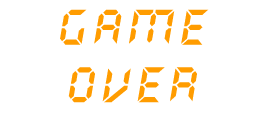
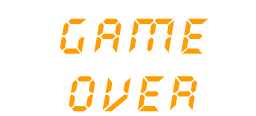
add background, flash title

Changed region(s): [[0.2188, 0.0776, 0.8125, 0.4655], [0.25, 0.569, 0.7812, 0.9828]]

diff --git a/src/MGJ3/Pages/Menu/AboutMenuPage.cs b/src/MGJ3/Pages/Menu/AboutMenuPage.cs
@@ -173,7 +173,7 @@ namespace MGJ3.Pages.MenuPages
             
             pageManager.SpriteBatch.Begin(SpriteSortMode.Deferred, BlendState.AlphaBlend, SamplerState.LinearClamp, DepthStencilState.DepthRead, RasterizerState.CullNone, this.UiEffect);
 
-            pageManager.SpriteBatch.Draw(_txBackground, Vector2.Zero, null, scolor, 0f, Vector2.Zero, 1f, SpriteEffects.None, 0.2f);
+            pageManager.SpriteBatch.Draw(_txBackground, Vector2.Zero, null, color, 0f, Vector2.Zero, 1f, SpriteEffects.None, 0.2f);
 
             string aboutText = @" 
 MonoGame Jam 3, 
@@ -183,7 +183,7 @@ Designed: Kastellanos Nikos (c) 2021
             pageManager.SpriteBatch.DrawString(_font, aboutText, new Vector2(200, 20), Color.LightGreen, 0f, Vector2.Zero, 1f, SpriteEffects.None, 0.3f);
 
             /*
-            pageManager.SpriteBatch.Draw(_txTitle, new Vector2(400,100), null, color, 0f, new Vector2(_txTitle.Width, _txTitle.Height) / 2f, 1f, SpriteEffects.None, 0.7f);
+            pageManager.SpriteBatch.Draw(_txTitle, new Vector2(400,100), null, scolor, 0f, new Vector2(_txTitle.Width, _txTitle.Height) / 2f, 1f, SpriteEffects.None, 0.7f);
             */
 
             for (int i=0; i<_buttons.Count;i++)

diff --git a/src/MGJ3/Pages/Menu/StartMenuPage.cs b/src/MGJ3/Pages/Menu/StartMenuPage.cs
@@ -175,9 +175,9 @@ namespace MGJ3.Pages.MenuPages
             
             pageManager.SpriteBatch.Begin(SpriteSortMode.Deferred, BlendState.AlphaBlend, SamplerState.LinearClamp, DepthStencilState.DepthRead, RasterizerState.CullNone, this.UiEffect);
             
-            pageManager.SpriteBatch.Draw(_txBackground, Vector2.Zero, null, scolor, 0f, Vector2.Zero, 1f, SpriteEffects.None, 0.2f);
+            pageManager.SpriteBatch.Draw(_txBackground, Vector2.Zero, null, color, 0f, Vector2.Zero, 1f, SpriteEffects.None, 0.2f);
 
-            pageManager.SpriteBatch.Draw(_txTitle, new Vector2(400,100), null, color, 0f, new Vector2(_txTitle.Width, _txTitle.Height) / 2f, 1f, SpriteEffects.None, 0.7f);
+            pageManager.SpriteBatch.Draw(_txTitle, new Vector2(400,100), null, scolor, 0f, new Vector2(_txTitle.Width, _txTitle.Height) / 2f, 1f, SpriteEffects.None, 0.7f);
 
             for (int i=0; i<_buttons.Count;i++)
             {

diff --git a/src/MGJ3/Pages/Menu/SettingsMenuPage.cs b/src/MGJ3/Pages/Menu/SettingsMenuPage.cs
@@ -171,9 +171,9 @@ namespace MGJ3.Pages.MenuPages
             
             pageManager.SpriteBatch.Begin(SpriteSortMode.Deferred, BlendState.AlphaBlend, SamplerState.LinearClamp, DepthStencilState.DepthRead, RasterizerState.CullNone, this.UiEffect);
 
-            pageManager.SpriteBatch.Draw(_txBackground, Vector2.Zero, null, scolor, 0f, Vector2.Zero, 1f, SpriteEffects.None, 0.2f);
+            pageManager.SpriteBatch.Draw(_txBackground, Vector2.Zero, null, color, 0f, Vector2.Zero, 1f, SpriteEffects.None, 0.2f);
 
-            pageManager.SpriteBatch.Draw(_txTitle, new Vector2(400,100), null, color, 0f, new Vector2(_txTitle.Width, _txTitle.Height) / 2f, 1f, SpriteEffects.None, 0.7f);
+            pageManager.SpriteBatch.Draw(_txTitle, new Vector2(400,100), null, scolor, 0f, new Vector2(_txTitle.Width, _txTitle.Height) / 2f, 1f, SpriteEffects.None, 0.7f);
 
             for (int i=0; i<_buttons.Count;i++)
             {

diff --git a/src/MGJ3/Pages/Game/GameFinishPage.cs b/src/MGJ3/Pages/Game/GameFinishPage.cs
@@ -196,7 +196,7 @@ namespace MGJ3.Pages.GamePages
 
             pageManager.SpriteBatch.Begin(SpriteSortMode.Deferred, BlendState.AlphaBlend, SamplerState.LinearClamp, DepthStencilState.DepthRead, RasterizerState.CullNone, this.UiEffect);
 
-            pageManager.SpriteBatch.Draw(_txTitle, new Vector2(400,100), null, color, 0f, new Vector2(_txTitle.Width, _txTitle.Height) / 2f, 1f, SpriteEffects.None, 0.7f);
+            pageManager.SpriteBatch.Draw(_txTitle, new Vector2(400,100), null, scolor, 0f, new Vector2(_txTitle.Width, _txTitle.Height) / 2f, 1f, SpriteEffects.None, 0.7f);
 
             for (int i=0; i<_buttons.Count;i++)
             {

diff --git a/src/MGJ3/Pages/Game/GameOverPage.cs b/src/MGJ3/Pages/Game/GameOverPage.cs
@@ -196,7 +196,7 @@ namespace MGJ3.Pages.GamePages
 
             pageManager.SpriteBatch.Begin(SpriteSortMode.Deferred, BlendState.AlphaBlend, SamplerState.LinearClamp, DepthStencilState.DepthRead, RasterizerState.CullNone, this.UiEffect);
 
-            pageManager.SpriteBatch.Draw(_txTitle, new Vector2(400,100), null, color, 0f, new Vector2(_txTitle.Width, _txTitle.Height) / 2f, 1f, SpriteEffects.None, 0.7f);
+            pageManager.SpriteBatch.Draw(_txTitle, new Vector2(400,100), null, scolor, 0f, new Vector2(_txTitle.Width, _txTitle.Height) / 2f, 1f, SpriteEffects.None, 0.7f);
 
             for (int i=0; i<_buttons.Count;i++)
             {
